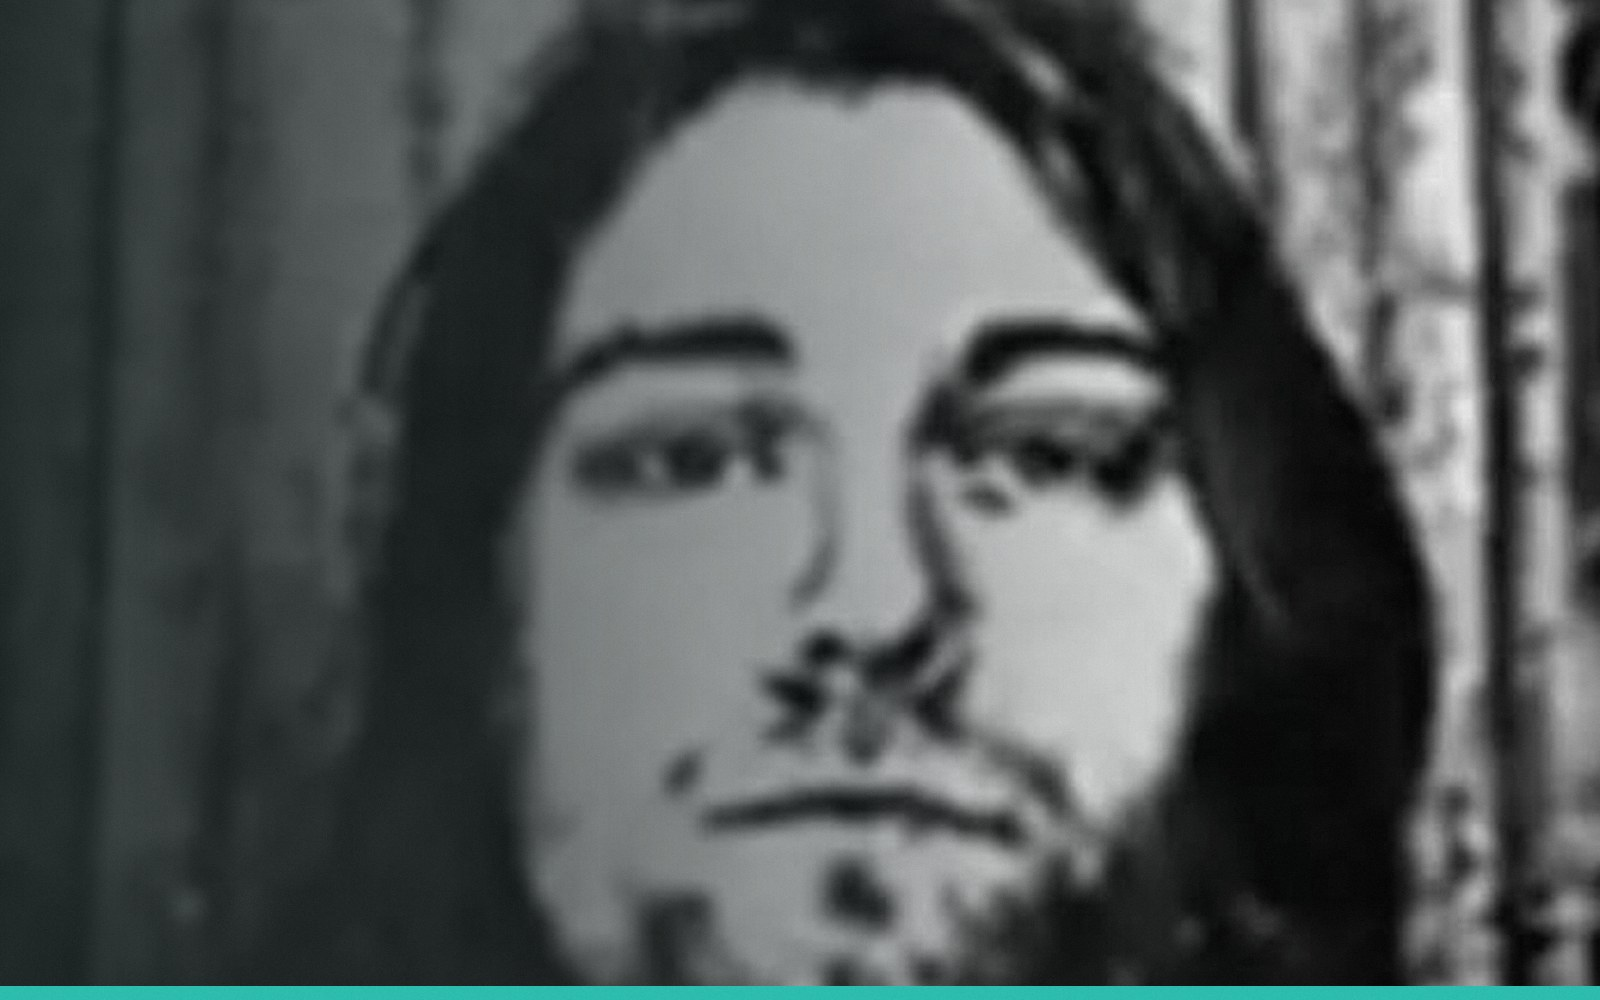
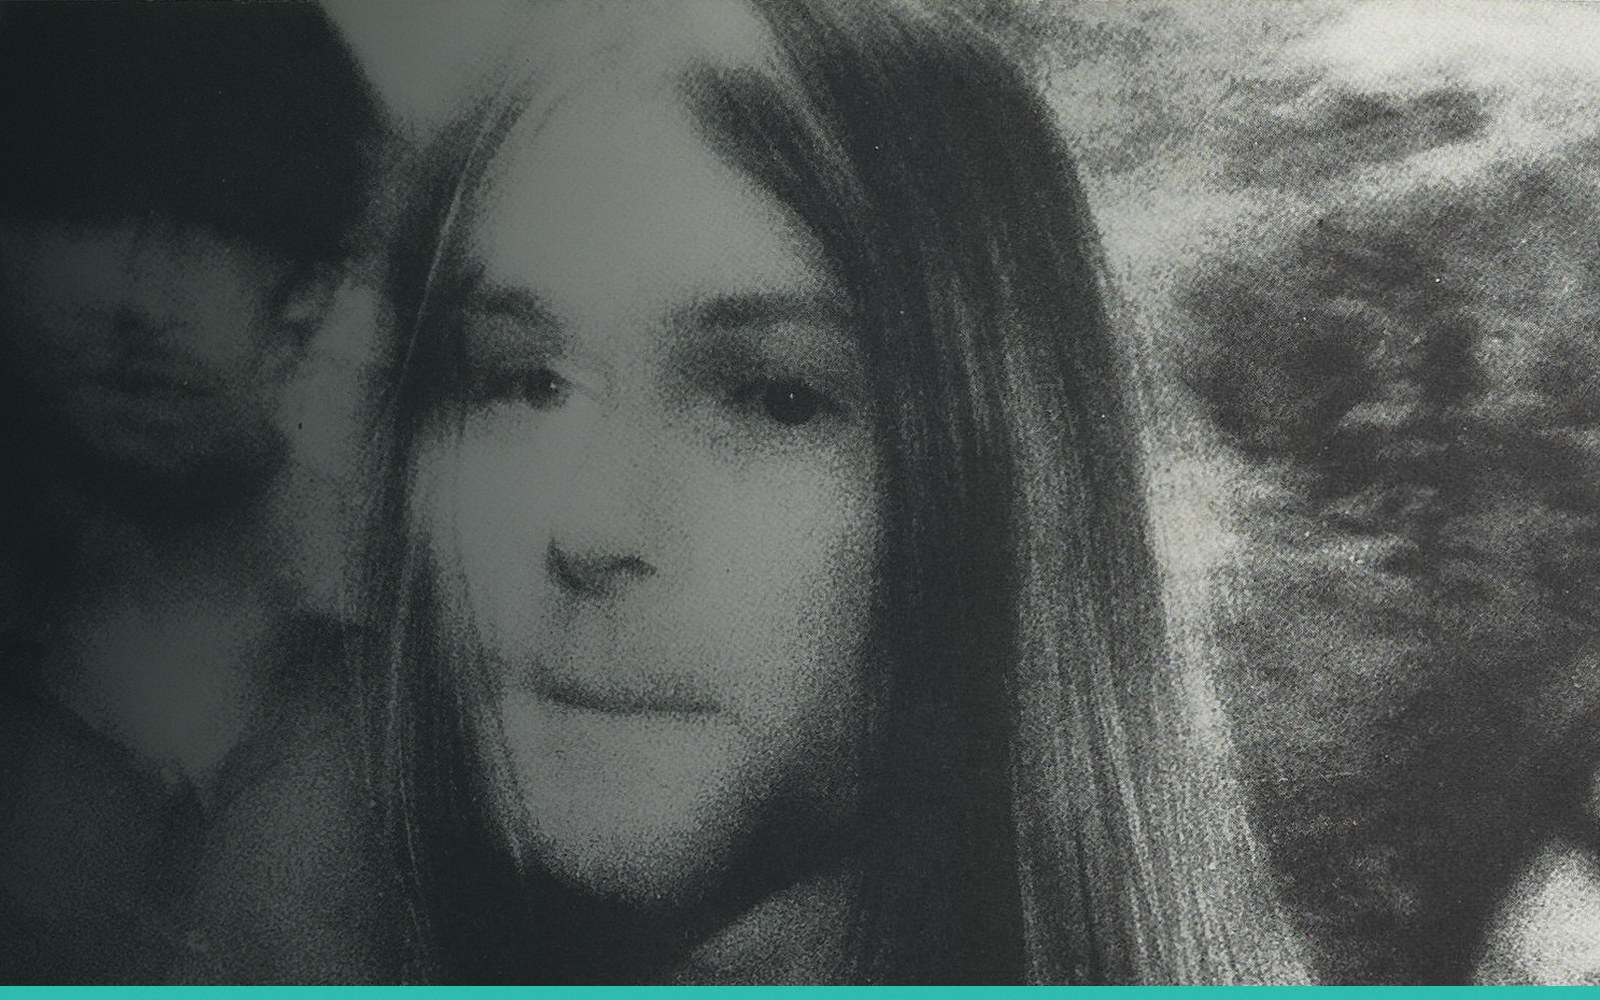
Epoki GROUA ERA: lepsze zdjęcie Kurta Cobaina (lata 90.)
Poprzednie zdjęcie z ambasady było za małe i rozmazywało się po powiększeniu.
Nowe pochodzi z okładki Big Cheese (Alice Wheeler, domena publiczna), 1488x1984 px.

diff --git a/src/lib/eraEngine.ts b/src/lib/eraEngine.ts
@@ -216,7 +216,7 @@ export function eraArtUrl(era: Era, _width = 512, _height = 512): string {
 export const ERA_PHOTO_CREDITS: Record<string, { artist: string; author: string; license: string; url: string }> = {
   "1970s": { artist: "Donna Summer", author: "Francesco Scavullo / Casablanca Records", license: "Public domain", url: "https://commons.wikimedia.org/wiki/File:Donna_Summer_(1977_Casablanca_publicity_headshot).jpg" },
   "1980s": { artist: "Prince", author: "Warner Bros. Pictures", license: "Public domain", url: "https://commons.wikimedia.org/wiki/File:Prince_(1984_Purple_Rain_promotional_photo).jpg" },
-  "1990s": { artist: "Kurt Cobain", author: "Embassy of the United States, Bern", license: "Public domain", url: "https://commons.wikimedia.org/wiki/File:Photo_of_Kurt_Cobain_from_US_Embassy_in_Bern.jpg" },
+  "1990s": { artist: "Kurt Cobain", author: "Alice Wheeler", license: "Public domain", url: "https://commons.wikimedia.org/wiki/File:Kurt_Cobain_on_Love_Buzz_Big_Cheese_front_cover_(cropped).jpg" },
   y2k: { artist: "Eminem", author: "Mika-photography", license: "CC BY-SA 3.0", url: "https://commons.wikimedia.org/wiki/File:Eminem-06-mika.jpg" },
   "2000s": { artist: "Rihanna", author: "Rajasekharan Parameswaran", license: "CC BY-SA 4.0", url: "https://commons.wikimedia.org/wiki/File:Rihanna_by_Rajasekharan_2019.jpg" },
   "2010s": { artist: "Thomas Bangalter (Daft Punk)", author: "LucaFazPhoto", license: "CC BY-SA 4.0", url: "https://commons.wikimedia.org/wiki/File:Thomas_Bangalter_at_82nd_Venice_International_Film_Festival-2_(cropped).jpg" },

diff --git a/public/era/CREDITS.md b/public/era/CREDITS.md
@@ -4,7 +4,7 @@ Zdjęcia wykonawców pochodzą z Wikimedia Commons. Każde jest przerobione (kad
 
 - **1970s**: Donna Summer. Plik: [Donna Summer (1977 Casablanca publicity headshot).jpg](https://commons.wikimedia.org/wiki/File:Donna_Summer_(1977_Casablanca_publicity_headshot).jpg). Licencja: Public domain. Autor: Francesco Scavullo / Casablanca Records.
 - **1980s**: Prince. Plik: [Prince (1984 Purple Rain promotional photo).jpg](https://commons.wikimedia.org/wiki/File:Prince_(1984_Purple_Rain_promotional_photo).jpg). Licencja: Public domain. Autor: Warner Bros. Pictures.
-- **1990s**: Kurt Cobain (Nirvana). Plik: [Photo of Kurt Cobain from US Embassy in Bern.jpg](https://commons.wikimedia.org/wiki/File:Photo_of_Kurt_Cobain_from_US_Embassy_in_Bern.jpg). Licencja: Public domain. Autor: Embassy of the United States, Bern.
+- **1990s**: Kurt Cobain (Nirvana). Plik: [Kurt Cobain on Love Buzz Big Cheese front cover (cropped).jpg](https://commons.wikimedia.org/wiki/File:Kurt_Cobain_on_Love_Buzz_Big_Cheese_front_cover_(cropped).jpg). Licencja: Public domain. Autor: Alice Wheeler.
 - **y2k**: Eminem. Plik: [Eminem-06-mika.jpg](https://commons.wikimedia.org/wiki/File:Eminem-06-mika.jpg). Licencja: CC BY-SA 3.0. Autor: Mika-photography.
 - **2000s**: Rihanna. Plik: [Rihanna by Rajasekharan 2019.jpg](https://commons.wikimedia.org/wiki/File:Rihanna_by_Rajasekharan_2019.jpg). Licencja: CC BY-SA 4.0. Autor: Rajasekharan Parameswaran.
 - **2010s**: Thomas Bangalter (Daft Punk). Plik: [Thomas Bangalter at 82nd Venice International Film Festival-2 (cropped).jpg](https://commons.wikimedia.org/wiki/File:Thomas_Bangalter_at_82nd_Venice_International_Film_Festival-2_(cropped).jpg). Licencja: CC BY-SA 4.0. Autor: LucaFazPhoto.
